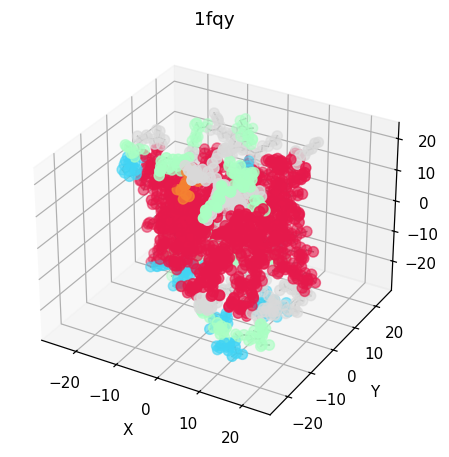
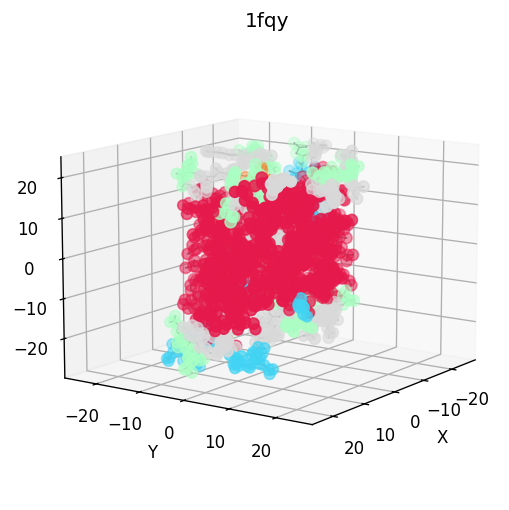
README: drop the spin GIF, feature DSSP secondary-structure render
Remove the spinning hero GIF (overkill) and its asset. Add a 'Secondary
structure (DSSP)' image to the showcase table so the protein visuals
demonstrate secondary-structure viewing, and de-duplicate the inline
render from the DSSP section.

diff --git a/README.md b/README.md
@@ -11,9 +11,9 @@ coarse-graining in Python. Read `.xyz`, `.pdb`, `.cif` and `.sdf` files
 3D. The `.cif` reader is a basic mmCIF parser for standard `_atom_site`
 coordinate loops, not a full mmCIF syntax implementation.
 
-| 3D structure rendering | Residue contact map | Coarse-grained beads |
-| --- | --- | --- |
-| ![Aquaporin-1 rendered as a 3D element-coloured molecular structure](https://raw.githubusercontent.com/roshan2004/molscope/main/docs/assets/readme/aquaporin-structure-v2.png) | ![Residue-level contact map heatmap for Aquaporin-1](https://raw.githubusercontent.com/roshan2004/molscope/main/docs/assets/readme/residue-contact-map.png) | ![Coarse-grained bead model of Aquaporin-1](https://raw.githubusercontent.com/roshan2004/molscope/main/docs/assets/readme/coarse-grained-beads-v2.png) |
+| 3D structure (element) | Secondary structure (DSSP) | Residue contact map | Coarse-grained beads |
+| --- | --- | --- | --- |
+| ![Aquaporin-1 rendered as a 3D element-coloured molecular structure](https://raw.githubusercontent.com/roshan2004/molscope/main/docs/assets/readme/aquaporin-structure-v2.png) | ![Aquaporin-1 coloured by DSSP secondary structure: helices red, turns cyan, coil grey](https://raw.githubusercontent.com/roshan2004/molscope/main/docs/assets/readme/secondary-structure.png) | ![Residue-level contact map heatmap for Aquaporin-1](https://raw.githubusercontent.com/roshan2004/molscope/main/docs/assets/readme/residue-contact-map.png) | ![Coarse-grained bead model of Aquaporin-1](https://raw.githubusercontent.com/roshan2004/molscope/main/docs/assets/readme/coarse-grained-beads-v2.png) |
 
 ## What it does
 
@@ -206,9 +206,8 @@ Codes follow DSSP: `H`/`G`/`I` helices, `E`/`B` strands, `T` turn, `S` bend,
 `-` coil. This is a simplified **educational** implementation: it reproduces the
 main classes from the Kabsch-Sander hydrogen-bond model but is not bit-identical
 to the reference `mkdssp` on every edge case. It needs backbone N/CA/C/O atoms,
-so use PDB/mmCIF input (not a bare `.xyz`).
-
-![Aquaporin-1 coloured by secondary structure: helices red, turns cyan, coil grey](https://raw.githubusercontent.com/roshan2004/molscope/main/docs/assets/readme/secondary-structure.png)
+so use PDB/mmCIF input (not a bare `.xyz`). The secondary-structure render in the
+showcase above (helices red, turns cyan, coil grey) is produced this way.
 
 ### NMR ensembles
 